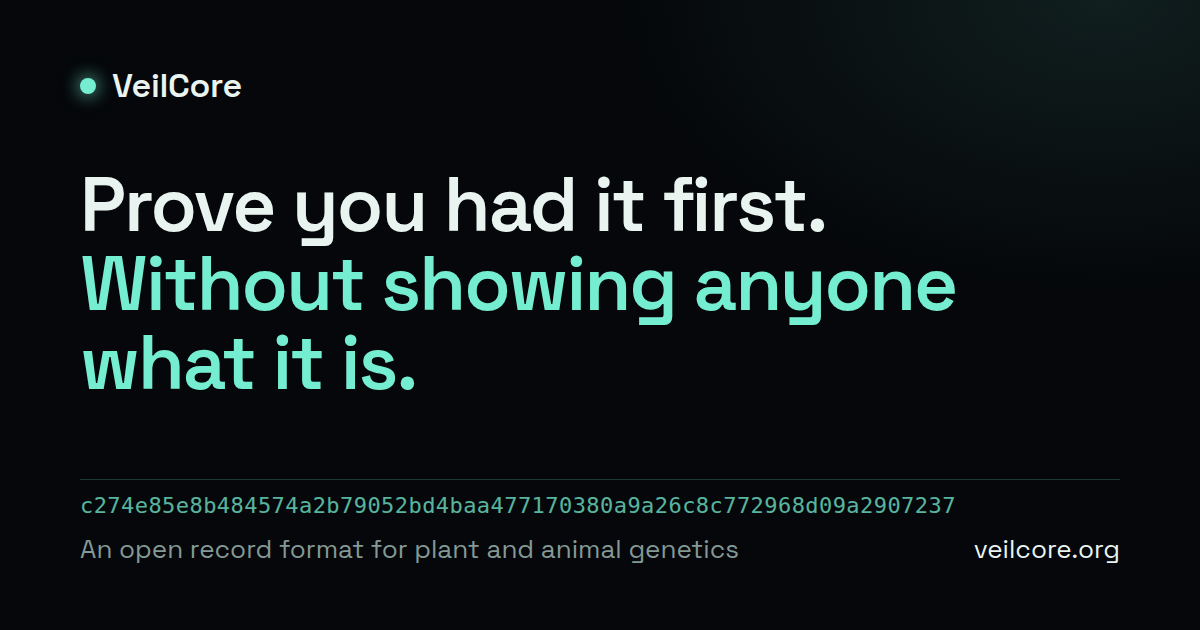
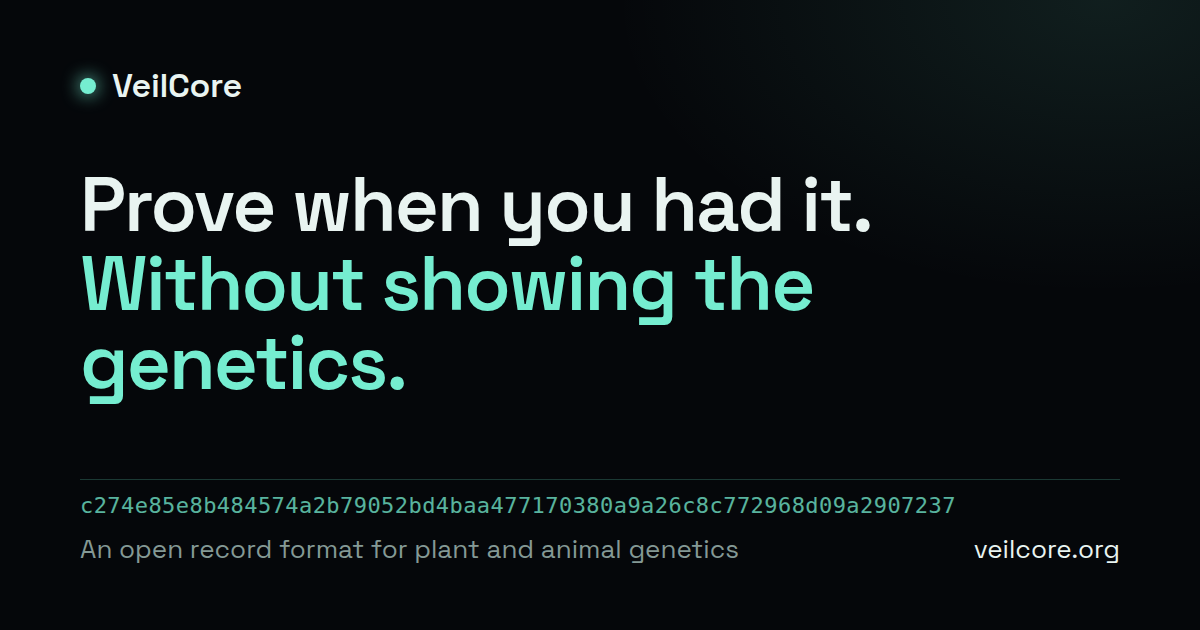
Site copy: apply the 5 Oct fact-check (items 1-18)
- DNA pairing: dated on the contract, not yet in the web demo; no "makes your test
  count later". Lab receipts, licences and obligations: contract behaviour, simulated in
  the demo; "live licence", obligations follow confirmed offspring.
- "We never vouch" -> "We don't vouch for results", with the vetting flag described.
- Hero: "Only a fingerprint goes on Midnight, which dates it"; "No sign-up, no wallet";
  status "a Midnight test network, which isn't evidence of anything yet". Headline kept.
- What the demo keeps (FAQ), what checking needs (SHA-256 plus inclusion proof plus a
  read of the Midnight network), registry code not yet published, npm release is next,
  /implementations names the open edge cases, claims limits add "without a lab's
  signature, the values are only the holder's word", "evidence" not "proof" of prior
  possession, "backdate" not "backfill", softer dispute and outreach lines.
- Network: "a Midnight test network" in general copy (the registry anchors on Preview);
  "Midnight's preprod test network" for the 4 Oct contract run. Header chip unchanged.
- Certificate: no seal for an anchor the registry reports; neutral icon labelled
  "Anchor reported by the registry".
- Step 1 keeps "Nothing here checks whether anyone else logged it first."
- Link previews: "prove when you had it, without showing the genetics"; og-image.png
  regenerated.
- Phones: rhythm tightened so the home page stays under nine screens (7,568px at 390).
[…]

Changed region(s): [[0.2467, 0.2714, 0.8017, 0.5127], [0.0617, 0.5127, 0.3392, 0.6635]]

diff --git a/bboard-ui/src/i18n/en.ts b/bboard-ui/src/i18n/en.ts
@@ -8,7 +8,7 @@ export const en = {
   'nav.licenses': 'Licenses',
   'nav.language': 'Language',
   'footer.about':
-    'An open record format for plant and animal genetics. Checking a record you hold needs only SHA-256 and the open specification: it is free and needs no account. Looking a record up by its identifier on this site uses our server.',
+    "An open record format for plant and animal genetics. Recomputing a record's fingerprint needs only SHA-256 and the open specification; checking its date also needs a read of the Midnight network. Both are free and need no account. Looking a record up by its identifier on this site uses our server.",
   'footer.documents': 'Documents',
   'footer.spec': 'Specification',
   'footer.evidence': 'Records in evidence',
@@ -32,17 +32,17 @@ export const en = {
   // main network are grouped here, together. Also index.html (meta description) and the
   // vendored INTEGRATING.md, which come from the SDK.
   'm.hero.status':
-    "Launching on Midnight's main network. Today records are dated on its test network, which carries no legal weight.",
+    "Launching on Midnight's main network. Today records are dated on a Midnight test network, which isn't evidence of anything yet.",
   'm.claims.status':
-    "A second Midnight contract, tested end to end on Midnight's test network on 4 October 2026 with made-up marker data. It isn't in this web demo or on the main network yet.",
+    "A second Midnight contract, tested end to end on Midnight's preprod test network on 4 October 2026 with made-up marker data. It isn't in this web demo or on the main network yet.",
   'm.faq.3a':
-    "It's built to be evidence, and our note for lawyers says what it proves and what it doesn't. Today it runs on Midnight's test network, and a test-network date carries no legal weight. The main network launch is close.",
+    "It's built to be evidence, and our note for lawyers says what it proves and what it doesn't. Today records are dated on a Midnight test network, and a test-network date carries no evidentiary weight. The main network launch is close.",
   'm.stat2.b': 'Test network',
-  'm.stat2.s': "Both contracts tested end to end. Not on Midnight's main network yet.",
+  'm.stat2.s': "Both contracts tested end to end on Midnight's preprod test network. Not on the main network yet.",
   'm.foot.about':
-    "An evidentiary record format for plant and animal genetics. Designed to anchor on Midnight; testing on Midnight's test network.",
+    'An evidentiary record format for plant and animal genetics. Designed to anchor on Midnight; testing on a Midnight test network.',
   'm.for.2p':
-    "Examiners and certifiers want marker evidence, and your markers are trade secrets. A VeilCore claim proves one fact about them without showing the rest. No examining office or certifier accepts it yet; we're asking them what they would need.",
+    "Breeders want to use their markers to show a variety is distinct, and treat those markers as trade secrets. A VeilCore claim proves one fact about them without showing the rest. No examining office or certifier accepts it yet; we've written to some to ask what they would need.",
   // End of MAINNET DAY strings.
 
   'm.nav.about': 'About',
@@ -56,37 +56,37 @@ export const en = {
   'm.hero.title1': 'Prove you had it first.',
   'm.hero.title2': 'Without showing anyone what it is.',
   'm.hero.lede':
-    'For breeders, seed companies and labs working with plant and animal genetics. Your genetic data stays on your computer. Only a fingerprint is published, on Midnight, and anyone can check its date. Free to check. No account, no wallet.',
+    'For breeders, seed companies and labs working with plant and animal genetics. Your genetic data stays on your computer. Only a fingerprint goes on Midnight, which dates it. Free to check. No sign-up, no wallet.',
   'm.hero.how': 'How it works',
   'm.hero.cultivar': 'Cultivar',
   'm.hero.bredBy': 'Bred by',
   'm.hero.bredByDefault': 'Your name here',
   'm.hero.demoLabel': 'Live fingerprint demo',
   'm.hero.note':
-    'Type in either box; nothing is sent. The mint line is the fingerprint, the only part that would be published. Nobody can work back from it to what you typed.',
+    'Type in either box; nothing is sent. The mint line is the fingerprint, the part that goes on Midnight. Nobody can work back from it to what you typed.',
 
   // Phones only: the note in one line.
-  'm.hero.noteShort': 'Only the mint line would be published.',
+  'm.hero.noteShort': 'Only the mint line goes on Midnight.',
 
   'm.for.label': "What it's for",
-  'm.for.title1': 'Every dispute asks one thing:',
+  'm.for.title1': 'Most genetics disputes come down to one question:',
   'm.for.title2': 'what did you have, and when?',
   'm.for.lede':
-    "Notebooks and lab reports are dated by whoever holds them, so they're easy to doubt. A shared registry means handing over what you're protecting. VeilCore gives your record a date nobody can backfill, and the genetics stay with you.",
+    "Notebooks and files are dated by whoever keeps them, so they're easy to doubt. Registering the material itself means handing over what you're protecting. VeilCore gives your record a date nobody can backdate, and the genetics stay with you.",
   'm.for.1t': 'A cutting walks out the door.',
   'm.for.1p':
-    "Seal a record and pair its DNA report. If the plant turns up under another name, a lab can compare it with your report, and your record shows you had that report by its date. VeilCore doesn't test DNA; it makes your test count later.",
+    "Seal a record and pair its DNA report. If the plant turns up under another name, a lab can compare a new test with your report. On the contract, pairing dates the report's fingerprint on Midnight, so your record shows you had that report by then. In this web demo the pairing is saved with your record but not yet dated. VeilCore doesn't test DNA.",
   'm.for.2t': 'Variety protection and certification.',
   'm.for.2link': 'How a claim works →',
   'm.for.3t': "Material in a lab's hands.",
   'm.for.3p':
-    "Put terms on material before it ships: what it's for, no propagation, return or destroy it after. The lab confirms receipt with its own key, so the record shows a second party, which protects the lab as much as the client.",
+    "Put terms on material before it ships: what it's for, no propagation, return or destroy it after. On the contract, the lab confirms receipt with its own key, so the record shows a second party, which protects the lab as much as the client. In the web demo this is simulated.",
   'm.for.4t': 'Signing test results.',
   'm.for.4p':
-    "The signature covers the exact report file and the record it's about, so it can't be moved or kept on an edited copy. Only the lab can withdraw it. VeilCore records who signed; it never vouches.",
+    "The signature covers the exact report file and the record it's about, so it can't be moved or kept on an edited copy. Only the lab can withdraw it. VeilCore records who signed; it doesn't vouch for the result.",
   'm.for.5t': 'Animal lines.',
   'm.for.5p':
-    "Herd books keep the pedigree. A record can give each entry a date nobody can backfill, without publishing the genotype. The format covers animals; this demo is set up for plants, and the animal record fields aren't published yet.",
+    "Herd books keep the pedigree. A record can give each entry a date nobody can backdate, without publishing the genotype. The format covers animals; this demo is set up for plants, and the animal record fields aren't published yet.",
   'm.for.5ask': 'If you breed animals, tell us what your records need.',
 
   'm.how.label': 'How it works',
@@ -94,13 +94,13 @@ export const en = {
   'm.how.title2': 'The genetics stay with you.',
   'm.step1.n': '01 · Record',
   'm.step1.title': 'Write it down',
-  'm.step1.text': 'What it is, where it came from, test results.',
+  'm.step1.text': 'What it is and where it came from. Add lab reports as files.',
   'm.step2.n': '02 · Fingerprint',
   'm.step2.title': 'Fingerprint it',
-  'm.step2.text': 'Done on your computer. Genetic data and lab files never leave it.',
+  'm.step2.text': 'Done on your computer. Lab files and genetic data files never leave it.',
   'm.step3.n': '03 · Anchor',
   'm.step3.title': 'Get a date',
-  'm.step3.text': 'Only the fingerprint goes on Midnight. The network sets the date, not us.',
+  'm.step3.text': 'Only the fingerprint goes on Midnight. The date is the block it lands in, not a date we choose.',
   'm.step4.n': '04 · Verify',
   'm.step4.title': 'Show it later',
   'm.step4.text': 'Give it to a buyer, examiner or court. They can check it, free, with no account.',
@@ -120,10 +120,11 @@ export const en = {
   'm.claims.4t': 'A correction left the rest alone.',
   'm.claims.4p': "After you correct a record, prove the values you didn't touch are unchanged.",
   'm.claims.5t': 'A lab signed the values.',
-  'm.claims.5p': 'So the claim is about values a lab sealed, not numbers you typed.',
+  'm.claims.5p':
+    "The claim names the key that signed the record, so it's about values that key signed, not just numbers you typed. Whether the key is a lab you trust is your call.",
   'm.claims.limitsTitle': 'Limits.',
   'm.claims.limits':
-    "Sixteen values per record. Comparing two varieties needs one party who holds both sets, such as the breeder or a lab that tested both. Anyone you give a sealed value to can make claims about it too. It doesn't fit comparisons across thousands of values.",
+    "Sixteen values per record. Comparing two varieties needs one party who holds both sets, such as the breeder or a lab that tested both. Anyone you give a sealed value to can make claims about it too. It doesn't fit comparisons across thousands of values. Without a lab's signature, the values are only the holder's word.",
   'm.claims.statusTitle': 'Status.',
   'm.claims.link': 'How claims work, in the spec →',
 
@@ -131,11 +132,11 @@ export const en = {
   'm.get.title1': 'What you get,',
   'm.get.title2': 'and where it stops.',
   'm.get.title': 'What you get',
-  'm.get.1a': 'A date nobody can backfill',
-  'm.get.1b': 'for what you hold, without showing what it is.',
+  'm.get.1a': 'A date nobody can backdate,',
+  'm.get.1b': 'for a record of what you hold, without showing what it is.',
   'm.get.2a': 'Terms that travel.',
   'm.get.2b':
-    "Licences and lab transfers attach to the record. A licensee can prove a licence is valid without showing which one. Royalties follow declared offspring; VeilCore records what's owed and doesn't collect it.",
+    "Licences and lab agreements attach to the record. A licensee can prove they hold a live licence without showing which one. An obligation on a parent, such as a royalty, shows on every offspring both holders confirmed; VeilCore records it and doesn't collect it. Tested on a Midnight test network; simulated in the web demo.",
   'm.get.3a': 'Lineage both sides agreed to.',
   'm.get.3b': 'A parent link counts only when both holders confirm it.',
   'm.stops.title': 'Where it stops, and what covers the rest',
@@ -146,10 +147,10 @@ export const en = {
     "A record proves what was written and when. A paired lab report or a lab's signature gives the content weight.",
   'm.stops.3a': 'It works with DNA testing, not instead of it.',
   'm.stops.3b':
-    'It keeps a test you already have meaningful years later. A parent link means both holders agreed; DNA is what proves descent.',
+    'It dates a DNA report you already have, so a later test can be compared with it. A parent link means both holders agreed; DNA is what proves descent.',
   'm.stops.4a': "It can't see what nobody declares.",
   'm.stops.4b':
-    "Quiet propagation isn't detected. But a licensee you revoke can't show a live licence to the next buyer or lab.",
+    "Quiet propagation isn't detected. But once you revoke a licence, a buyer or lab who checks properly won't accept it as live.",
 
   'm.open.label': 'Open format',
   'm.open.title1': 'Built to',
@@ -160,13 +161,13 @@ export const en = {
   'm.open.1link': 'All three implementations →',
   'm.open.2t': "Your record doesn't need us.",
   'm.open.2p':
-    'Anyone holding the record can check it with SHA-256, the open spec and the public network, even if VeilCore is gone.',
-  'm.open.3t': 'We never vouch.',
+    'Anyone holding the record and its inclusion proof can check it with SHA-256, the open spec and a read of the Midnight network, even if VeilCore is gone.',
+  'm.open.3t': "We don't vouch for results.",
   'm.open.3p':
-    "A record shows which lab signed it and which accreditor the lab names. Whoever checks it decides what that's worth.",
+    "A record shows which key signed it, the name and accreditor registered with that key, and whether we've checked that the key belongs to that name. Whoever checks it decides what that's worth.",
   'm.open.4t': 'Anyone can run a registry.',
   'm.open.4p':
-    'A lab, certifier or rights body can run its own, under its own web domain, with its own field definitions. Nothing has to go through us.',
+    "The format lets a lab, certifier or rights body run its own, under its own web domain, with its own field definitions, and anchor without asking us. Our own registry code isn't published yet; we plan to publish it.",
   'm.open.5t': 'Checking is free, always.',
   'm.open.5p': 'No account, no payment, for anyone.',
 
@@ -175,20 +176,20 @@ export const en = {
   'm.faq.title2': 'people ask.',
   'm.faq.1q': 'What stops someone logging my cultivar?',
   'm.faq.1a':
-    "Once records are anchored, anyone can check which was anchored first. Pair your lab report, so a later test can be compared with the one you sealed. When you send material out, the receiver confirms it with their own key. A record is evidence, not a registration: it doesn't settle anything against someone who never logged anything.",
+    "Once records are anchored, anyone can check which was anchored first. Pair your lab report, so a later test can be compared with it. When you send material out, the receiver confirms it with their own key. A record is evidence, not a registration: it doesn't settle anything against someone who never logged anything.",
   'm.faq.2q': 'Do I need crypto or a wallet?',
   'm.faq.2a':
-    'No. Making a record in the demo and checking any record need no wallet, no account and nothing to buy. The fingerprint goes on Midnight, a blockchain built for privacy. You never deal with it directly.',
+    'No. Making a record in the demo and checking any record need no wallet, no sign-up and nothing to buy. Your browser keeps a random key that finds your demo records on our server. The fingerprint goes on Midnight, a blockchain built for privacy. You never deal with it directly.',
   'm.faq.3q': 'Will it stand up in a dispute?',
   'm.faq.3link': 'Records in evidence →',
   'm.faq.4q': 'What do you see of my data?',
   'm.faq.4a':
-    "Your genetics and lab files: nothing. They're fingerprinted on your computer. This website keeps the names, dates and notes you type, so you can come back to them. Labs and developers can seal records inside their own systems, so only the fingerprint goes out.",
+    "Your genetics and lab files: nothing. They're fingerprinted on your computer. This website keeps what you type (names, dates, notes, agreement terms) and your lab files' names, so you can come back to them, and a record's public check page shows its cultivar name. Labs and developers can seal records inside their own systems, so only the fingerprint goes out.",
   'm.faq.4link1': 'What the demo keeps →',
   'm.faq.4link2': 'Integration guide →',
   'm.faq.5q': 'What if VeilCore disappears?',
   'm.faq.5a':
-    'Your records still check. The spec is open, checking needs only SHA-256 and the public network, and the TypeScript, Python and Rust code is published.',
+    "Records you've kept a copy of still check. The spec is open, the TypeScript, Python and Rust code is published, and checking needs SHA-256, the record's inclusion proof and a read of the Midnight network. A one-click download of everything we hold for you is coming.",
   'm.faq.6q': 'What does it cost?',
   'm.faq.6a': 'Checking a record is free, always.',
 
@@ -196,7 +197,7 @@ export const en = {
   'm.demo.title1': 'Pick how you',
   'm.demo.title2': 'want to see it.',
   'm.demo.lede':
-    "No account, no wallet. It's a test version, so use made-up details. Records are dated in batches, and licences in the demo are simulated.",
+    "No sign-up, no wallet. It's a test version, so use made-up details. Records are dated in batches; licences and lab agreements are simulated, and DNA report pairings aren't dated yet.",
   'm.demo.privacy': 'What the demo keeps →',
   'm.demo.create.title': 'Create a record',
   'm.demo.create.text': 'Fill in a sample record, generate its fingerprint and download the certificate.',
@@ -232,7 +233,7 @@ export const en = {
   'm.post0.tag': 'Contract',
   'm.post0.title': 'Proving one fact, keeping the rest',
   'm.post0.text':
-    "Both contracts passed all 37 end-to-end checks on Midnight's test network, including the new claims: a value, a range, a difference, an unchanged correction and a lab's signature. Made-up marker data; not on the main network yet.",
+    "Both contracts passed all 37 end-to-end checks on Midnight's preprod test network, including the new claims: a value, a range, a difference, an unchanged correction and a signature from a test lab key. Made-up marker data; not on the main network yet.",
   'm.post1.date': '3 Oct 2026',
   'm.post1.tag': 'Format',
   'm.post1.title': 'Three implementations, one answer',
@@ -249,7 +250,8 @@ export const en = {
   'm.status.title2': 'where we are.',
   'm.status.lede': "We'd rather say this now than have it come out later.",
   'm.stat1.b': '100 / 100',
-  'm.stat1.s': 'shared test vectors passed in TypeScript, Python and Rust (one author wrote all three)',
+  'm.stat1.s':
+    'shared test vectors passed in TypeScript, Python and Rust on GitHub (one author wrote all three; the npm release is next)',
   'm.stat3.b': 'No audit',
   'm.stat3.s': 'No independent security audit yet. Our own reviews are public.',
   'm.stat4.b': 'First users wanted',
@@ -267,7 +269,7 @@ export const en = {
   'm.contact.2t': 'Seed certifiers, examiners and rights bodies',
   'm.contact.2p': 'Tell us what evidence you would need to see, and in what form.',
   'm.contact.3t': 'Developers',
-  'm.contact.3p': 'Add it to software you already run. No account and no API key.',
+  'm.contact.3p': 'Add it to software you already run. No account or API key with us.',
   'm.contact.4t': 'Investors',
   'm.contact.4p': 'Write to Mako, our CEO.',
   'm.contact.email': 'Email the founders',
@@ -287,14 +289,14 @@ export const en = {
   'm.verify.lede':
     'Enter the record identifier printed on a certificate or shared with you. You will see what its holder chose to disclose, and whether it is intact.',
   'm.verify.what':
-    'A VeilCore record is a dated fingerprint of genetic material, published without the genetics. Checking one is free and needs no account.',
+    "A VeilCore record is a fingerprint of a description of genetic material, dated once it's anchored, published without the genetics. Checking one is free and needs no account.",
   'm.verify.home': 'What is VeilCore? →',
   'm.verify.field': 'Record identifier',
   'm.verify.go': 'Check it',
 
   'm.founders.label': 'Founders',
   'm.founders.lede':
-    'VeilCore is an evidentiary record format for plant and animal genetics. It gives proof of prior possession without anyone handing over their genetic data.',
+    'VeilCore is an evidentiary record format for plant and animal genetics. It gives evidence of prior possession without anyone handing over their genetic data.',
   'm.founders.leads': 'Leads',
   'm.founders.also': 'Also',
   'm.founders.languages': 'Languages',

diff --git a/bboard-ui/index.html b/bboard-ui/index.html
@@ -5,31 +5,31 @@
     <link rel="icon" type="image/png" href="/icon.png" />
     <meta name="viewport" content="width=device-width, initial-scale=1.0" />
     <title>VeilCore — Proof of prior possession</title>
-    <!-- MAINNET DAY: the description says "tested on Midnight's test network"; change it then. -->
+    <!-- MAINNET DAY: the description says "tested on a Midnight test network"; change it then. -->
     <meta
       name="description"
-      content="An open record format for plant and animal genetics. Seal a record on your own computer; only its fingerprint is dated on Midnight. Pre-launch: tested on Midnight's test network, no independent audit yet."
+      content="An open record format for plant and animal genetics. Seal a record on your own computer; only its fingerprint is dated on Midnight. Pre-launch: tested on a Midnight test network, no independent audit yet."
     />
     <meta property="og:type" content="website" />
     <meta property="og:site_name" content="VeilCore" />
     <meta property="og:url" content="https://veilcore.org/" />
-    <meta property="og:title" content="VeilCore: prove you had it first, without showing what it is" />
+    <meta property="og:title" content="VeilCore: prove when you had it, without showing the genetics" />
     <meta
       property="og:description"
-      content="An open record format for plant and animal genetics. Prove what you held, and when, without showing anyone what it is. Free to check, no account."
+      content="An open record format for plant and animal genetics. Date a record of what you hold without showing anyone the genetics. Free to check, no sign-up."
     />
     <meta property="og:image" content="https://veilcore.org/og-image.png" />
     <meta property="og:image:width" content="1200" />
     <meta property="og:image:height" content="630" />
     <meta
       property="og:image:alt"
-      content="VeilCore. Prove you had it first. Without showing anyone what it is."
+      content="VeilCore. Prove when you had it. Without showing the genetics."
     />
     <meta name="twitter:card" content="summary_large_image" />
-    <meta name="twitter:title" content="VeilCore: prove you had it first, without showing what it is" />
+    <meta name="twitter:title" content="VeilCore: prove when you had it, without showing the genetics" />
     <meta
       name="twitter:description"
-      content="An open record format for plant and animal genetics. Prove what you held, and when, without showing anyone what it is."
+      content="An open record format for plant and animal genetics. Date a record of what you hold without showing anyone the genetics."
     />
     <meta name="twitter:image" content="https://veilcore.org/og-image.png" />
   </head>

diff --git a/bboard-ui/src/components/wizard/Step3Certificate.tsx b/bboard-ui/src/components/wizard/Step3Certificate.tsx
@@ -10,7 +10,7 @@ import React, { useEffect, useRef, useState } from 'react';
 import { Box, Button, Divider, Snackbar, Stack, Typography } from '@mui/material';
 import DownloadIcon from '@mui/icons-material/DownloadOutlined';
 import ContentCopyIcon from '@mui/icons-material/ContentCopyOutlined';
-import VerifiedIcon from '@mui/icons-material/VerifiedOutlined';
+import ReportedIcon from '@mui/icons-material/ScheduleOutlined';
 import { QRCodeSVG } from 'qrcode.react';
 import { toPng } from 'html-to-image';
 import { getRecord, checkIntegrity, type IntegrityCheck } from '../../veilcore/records';
@@ -164,10 +164,15 @@ export const Step3Certificate: React.FC<{ recordId: string; onDone: () => void; 
               Record certificate
             </Typography>
           </Box>
-          {/* The badge appears only once the anchor is reported and the inclusion proof checks;
-              before that the certificate makes no "verified" signal. */}
+          {/* No seal: this site does not read the chain, so a reported anchor is the
+              registry's word (proofs.ts). A neutral mark, labelled as exactly that. */}
           {anchor !== 'checking' && anchor.status === 'anchor-reported' && (
-            <VerifiedIcon sx={{ color: TEAL, fontSize: 32 }} />
+            <Stack direction="row" spacing={0.75} sx={{ alignItems: 'center', color: 'text.secondary' }}>
+              <ReportedIcon sx={{ fontSize: 20 }} />
+              <Typography variant="caption" sx={{ color: 'text.secondary' }}>
+                Anchor reported by the registry
+              </Typography>
+            </Stack>
           )}
         </Stack>
 

diff --git a/bboard-ui/src/components/Implementations.tsx b/bboard-ui/src/components/Implementations.tsx
@@ -75,10 +75,11 @@ export const Implementations: React.FC = () => (
         Three implementations, one author, that now agree.
       </Typography>
       <Typography variant="h6" sx={{ color: 'text.secondary', maxWidth: 620, fontWeight: 400, lineHeight: 1.6 }}>
-        TypeScript, Python and Rust, all written by the same author. They agree on the 100 published conformance vectors
-        and on 81,000 random inputs. That shows the rules hold across three languages. It does not yet show that someone
-        else could implement the format from the document alone: an implementation by someone else is still the missing
-        test.
+        TypeScript, Python and Rust, all written by the same author. They agree on the 100 published conformance
+        vectors, and agreed on 81,000 random inputs on 3 October. A later test found edge cases where they can still
+        differ (very new Unicode characters, very deep nesting, duplicate keys); the spec fix is in progress. That shows
+        the rules hold across three languages. It does not yet show that someone else could implement the format from
+        the document alone: an implementation by someone else is still the missing test.
       </Typography>
     </Box>
 

diff --git a/bboard-ui/src/components/wizard/Step5ProveDisclosure.tsx b/bboard-ui/src/components/wizard/Step5ProveDisclosure.tsx
@@ -194,7 +194,7 @@ export const Step5ProveDisclosure: React.FC<{ recordId: string; onDone: () => vo
             nothing else; the registry does not send the rest, and editing the link cannot add to it. The genetics are
             never disclosed. This choice controls what the verify page shows. Proving one hidden value (a marker, a
             range, or that two varieties differ) without showing the rest is done by VeilCore&apos;s claims contract.
-            It&apos;s tested on Midnight&apos;s test network but isn&apos;t in this demo yet.
+            It&apos;s tested on Midnight&apos;s preprod test network but isn&apos;t in this demo yet.
           </Typography>
           <TextField
             value={result.absolute}

diff --git a/bboard-ui/src/pages/VerifyPage.tsx b/bboard-ui/src/pages/VerifyPage.tsx
@@ -250,8 +250,8 @@ export const VerifyPage: React.FC = () => {
           color="text.secondary"
           sx={{ textAlign: 'center', mb: 4, maxWidth: 460, mx: 'auto' }}
         >
-          This page checks a VeilCore record: a dated fingerprint of genetic material, published without the genetics.
-          Checking is free and needs no account.{' '}
+          This page checks a VeilCore record: a fingerprint of a description of genetic material, dated once it&apos;s
+          anchored, published without the genetics. Checking is free and needs no account.{' '}
           <Box component={RouterLink} to="/" sx={{ color: TEAL, whiteSpace: 'nowrap' }}>
             What is VeilCore?
           </Box>

diff --git a/bboard-ui/src/components/wizard/Step1LogStrain.tsx b/bboard-ui/src/components/wizard/Step1LogStrain.tsx
@@ -114,7 +114,7 @@ export const Step1LogStrain: React.FC<{ onDone: (recordId: string) => void }> = 
           <Typography variant="body2" sx={{ mt: 0.5, color: 'text.secondary' }}>
             Sealed {fmtStamp(record.loggedAt)}, by this device&apos;s clock. Its public date comes when the next batch
             is anchored; the record&apos;s verify page will show it. The creation date ({record.dateCreated}) is
-            recorded as your own statement.
+            recorded as your own statement. Nothing here checks whether anyone else logged it first.
           </Typography>
         </Alert>
         <Box>

diff --git a/bboard-ui/src/components/site/site.css b/bboard-ui/src/components/site/site.css
@@ -1919,4 +1919,17 @@ html:has(.vcm) {
   .vcm .person {
     padding-block: 10px;
   }
+  /* 5 Oct fact-check pass: the honest sentences are longer; the rhythm gives way */
+  .vcm section {
+    padding-block: 24px;
+  }
+  .vcm section h2 {
+    font-size: 1.5rem;
+  }
+  .vcm .audiences > div {
+    padding-block: 8px;
+  }
+  .vcm .claim-list li.fold .fold-btn {
+    min-height: 40px;
+  }
 }
